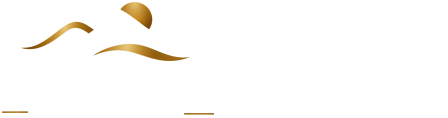
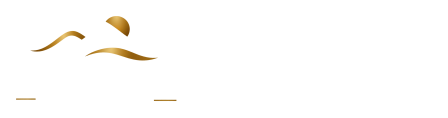
Update back office header image generation and adjust guide CSS for better styling

diff --git a/modules/salisbergguide/views/css/guide.css b/modules/salisbergguide/views/css/guide.css
@@ -25,3 +25,10 @@
 .sb-guide .sb-card h3 { margin: 0 0 8px; font-size: 18px; color: #12352c; }
 .sb-guide .sb-card .btn { margin-top: 10px; }
 @media (max-width: 767px) { .sb-guide .sb-toc ol { columns: 1; } }
+
+/* The back office theme gives panels' headings negative margins and capitals; undo inside the guide */
+.bootstrap .sb-guide { margin: 0 5px 30px 15px; }
+.bootstrap .sb-guide section h3,
+.bootstrap .sb-guide .sb-card h3 { height: auto; margin: 0 0 12px !important; padding: 0 0 10px !important; line-height: 1.3; text-transform: none; font-family: inherit; }
+.bootstrap .sb-guide .sb-card h3 { padding: 0 !important; border: 0; }
+.bootstrap .sb-guide .sb-intro h2 { text-transform: none; font-family: inherit; }

diff --git a/docker/branding/make.php b/docker/branding/make.php
@@ -50,5 +50,5 @@ imagepng(fit($src, $LOGO, 369, 196, null, 0), '/w/img/qloapps@2x.png');         
 imagepng(fit($src, $ICON, 272, 272, null, 6), '/w/img/qloapps-login@2x.png');           // back office login, badge
 imagepng(fit($src, $ICON, 272, 272, null, 6), '/w/img/qloapps-login-wink@2x.png');
 imagepng(fit($src, $ICON, 250, 250, $W, 20), '/w/img/prestashop-avatar.png');           // default employee avatar
-imagepng(fit($src, $LOGO, 448, 118, null, 2, 'left', true), '/w/admin/themes/default/img/qloapps-back-office-header.png'); // dark bar
+imagepng(fit($src, $LOGO, 448, 118, null, 16, 'left', true), '/w/admin/themes/default/img/qloapps-back-office-header.png'); // dark bar
 foreach (['img/logo.jpg','img/logo_mail.jpg','img/favicon.ico','img/logo_stores.png','img/qloapps@2x.png','img/qloapps-login@2x.png','img/prestashop-avatar.png','admin/themes/default/img/qloapps-back-office-header.png'] as $f) { $s = getimagesize("/w/$f"); echo "$f {$s[0]}x{$s[1]} {$s['mime']} ".filesize("/w/$f")."b\n"; }
